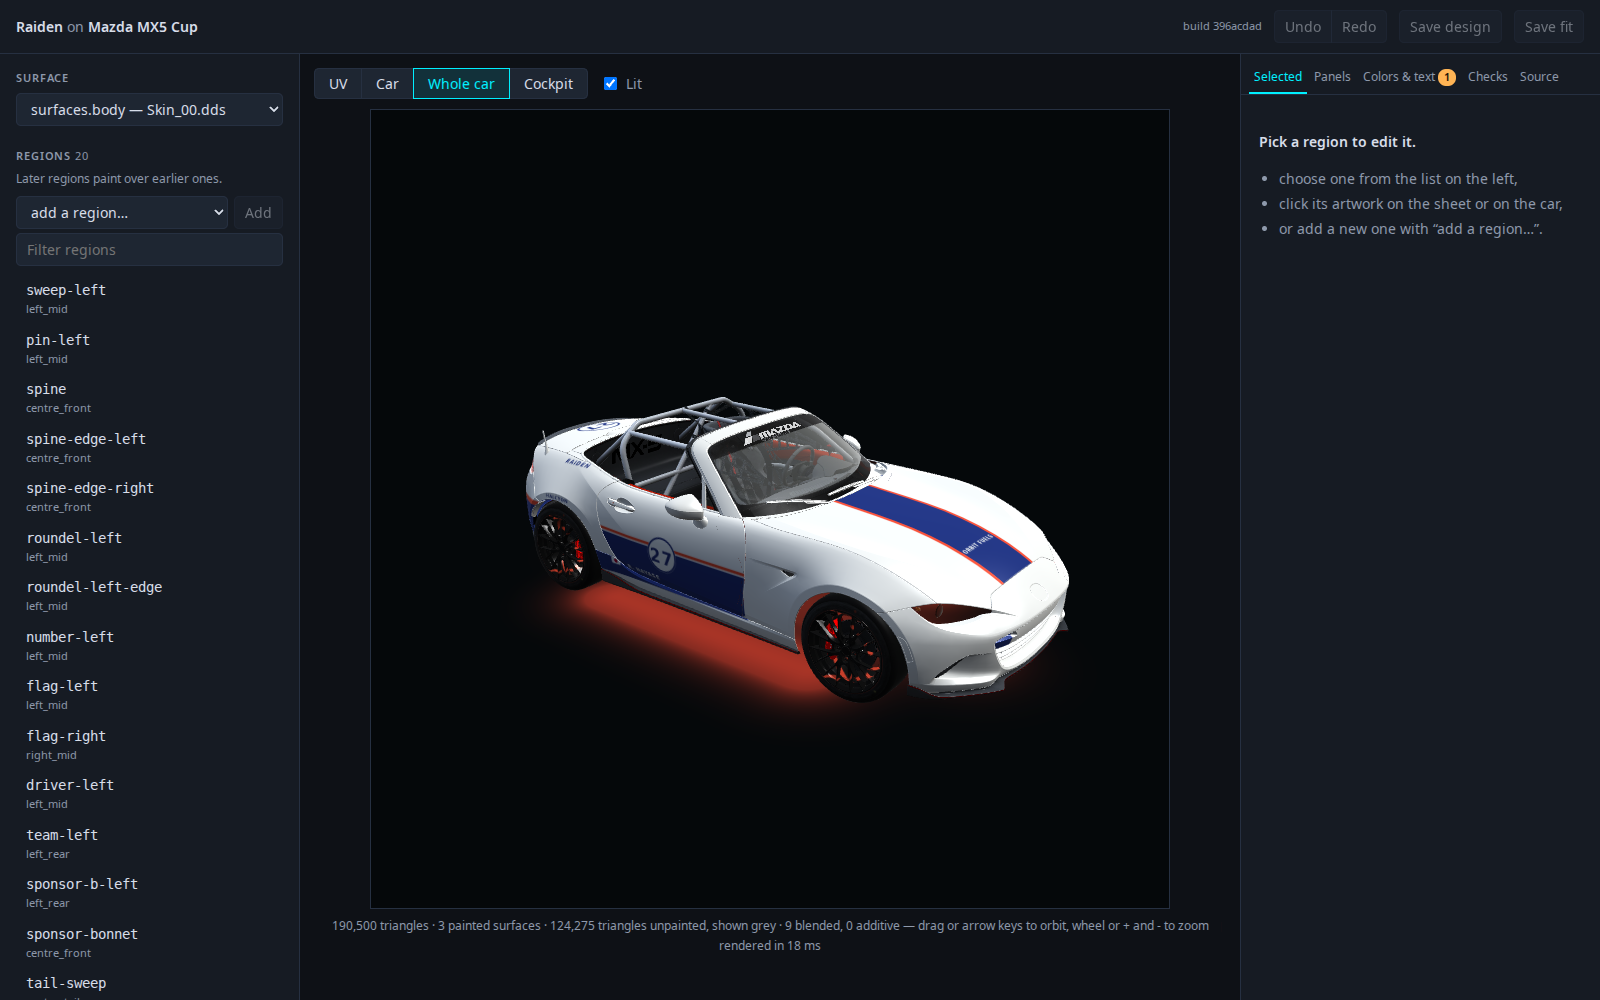
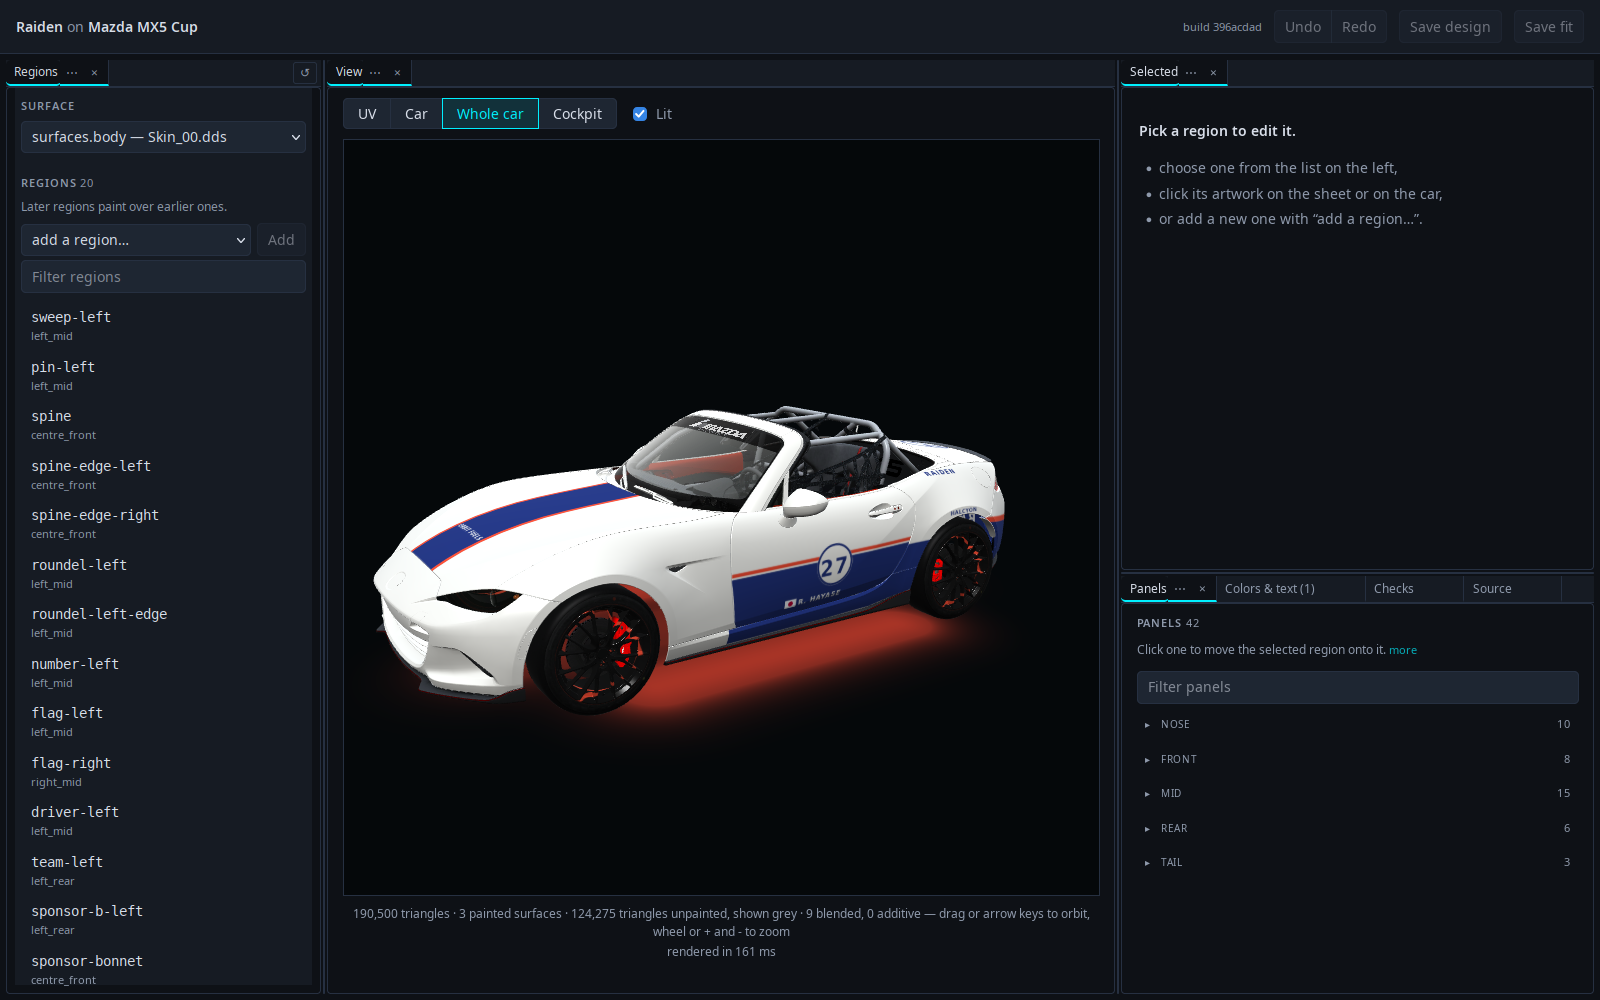
Take the editor's picture with tools/screenshot.sh, and keep the in-game shot
The editor screenshot was taken in headless Chrome rather than with the
repository's own script, which takes it in a sealed shotbox session so it
comes out the same each time. car.png is an in-game screenshot, which a
render does not replace; it stays until a new one is taken in the game.

diff --git a/README.md b/README.md
@@ -4,7 +4,7 @@
 
 Generate [Assetto Corsa](https://www.assettocorsa.net/) car liveries from code.
 
-![The fitting editor: the Raiden livery on the Mazda MX5 Cup, white with an indigo sweep and spine, a number roundel on the door and a vermilion underglow. The design's regions on the left, the whole car lit in 3D in the middle, and on the right a prompt to pick a region to edit.](docs/images/editor.png)
+![The fitting editor: the Raiden livery on the Mazda MX5 Cup, white with an indigo sweep and spine, a number roundel on the door and a vermilion underglow. The design's regions on the left, the whole car lit in 3D in the middle, and on the right a prompt to pick a region to edit, over the list of panels to move it to.](docs/images/editor.png)
 
 *The fitting editor: a design described as named regions over a palette, fitted onto the car's own model.*
 
@@ -37,7 +37,7 @@ liverykit reads the car's model to find out. A `.kn5` (Assetto Corsa's model
 format) stores a 3D position *and* a UV coordinate for every vertex, which is
 precisely the mapping a livery needs.
 
-![The portable Neon Grid design fitted onto the Mazda MX5 Cup, as liverykit renders it](docs/images/car.png)
+![A livery that has been fitted onto a Honda NSX GT3](docs/images/car.png)
 
 ---
 
